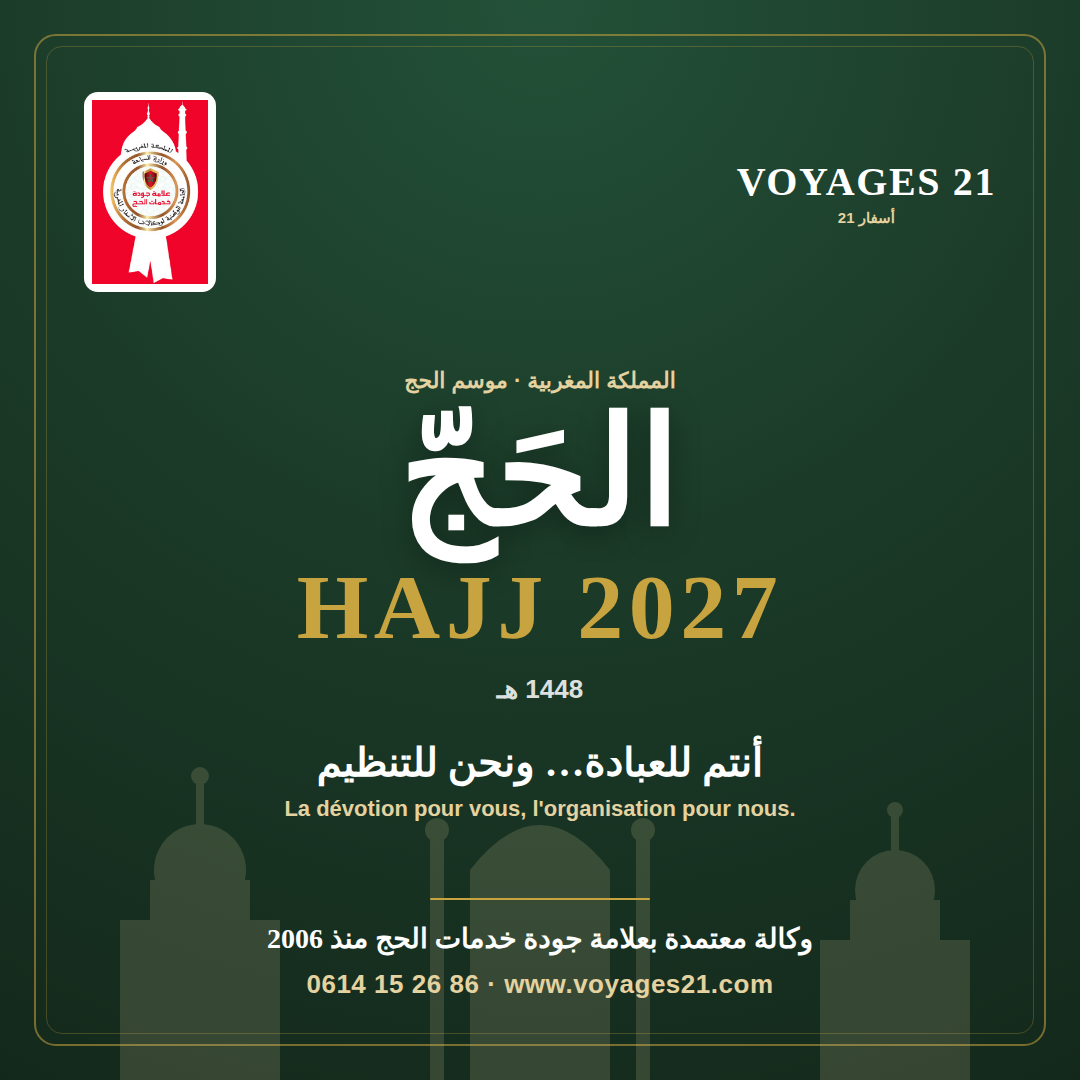
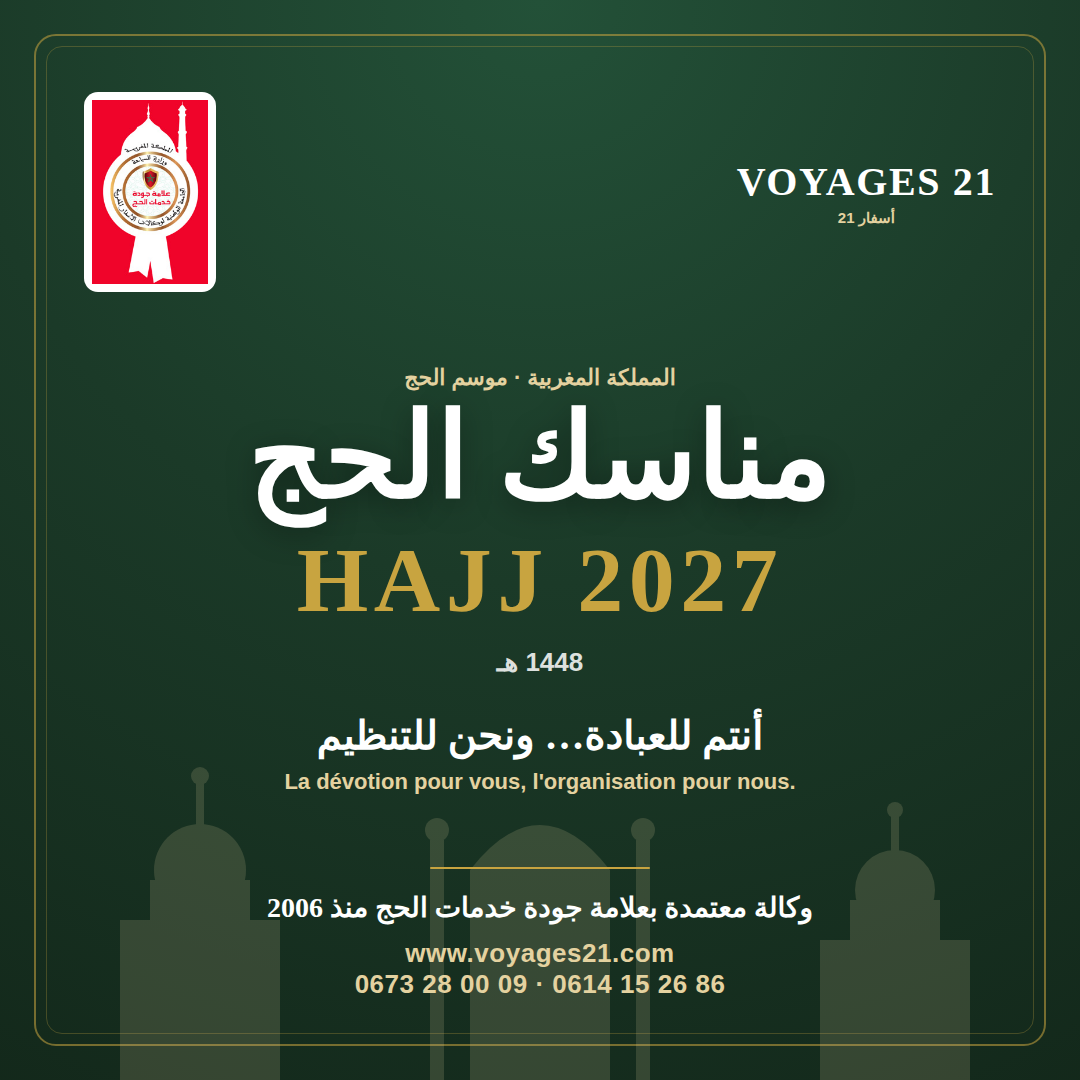
feat(hajj): animations + contacts nommés + visuel manassik + retrait plaquette
- Cadran 1 lit « 26 ans » ; cadran avis cliquable (Google) + battement de cœur
- Services optionnels : section animée (shimmer) + bouton « Appelez-nous »
  clignotant
- Apparition au défilement (reveal) + compteur de prix animé + shimmer dates
- Slogan FR : suppression du point parasite (dir=ltr)
- Contacts : bouton GPS « Cliquez pour venir chez nous » ; barre flottante avec
  numéros complets ; numéros nommés Wafa (0614 15 26 86) / Fouad (0673 28 00 09)
- Visuel WhatsApp : titre « مناسك الحج » 2027/1448 H + 2 numéros + site
- Plaquette A4 supprimée (redondante avec la page)
- MAJ REPRISE-SITE.md

Claude-Session: https://claude.ai/code/session_01LbniTzH83xLUAnfYs4PxP8

Changed region(s): [[0.2139, 0.3361, 0.7639, 0.7639], [0.2444, 0.825, 0.7639, 0.9167]]

diff --git a/public/voyages/destinations/hajj-2027.html b/public/voyages/destinations/hajj-2027.html
@@ -157,9 +157,53 @@
     .v21fab .opt.gps { background: var(--gold); color: var(--forest2); }
     .v21fab .opt .num { font-family: 'DM Sans', sans-serif; }
 
+    /* Animations */
+    @keyframes heartbeat {
+        0%, 28%, 70%, 100% { transform: scale(1); }
+        14% { transform: scale(1.05); }
+        42% { transform: scale(1.045); }
+    }
+    .why-card.is-center { animation: heartbeat 2.2s ease-in-out infinite; cursor: pointer; text-decoration: none; }
+    .why-card.is-center:hover { filter: brightness(1.07); }
+
+    @keyframes blink {
+        0%, 100% { opacity: 1; box-shadow: 0 0 0 0 rgba(200,164,64,.5); }
+        50% { opacity: .55; box-shadow: 0 0 0 10px rgba(200,164,64,0); }
+    }
+    .blink { animation: blink 1.3s ease-in-out infinite; }
+
+    /* Services optionnels */
+    .options { max-width: var(--maxw); margin: 2.4rem auto 0; padding: 0 1.2rem; }
+    .options .inner { background: linear-gradient(135deg, #fbf6ea 0%, #fff 100%); border: 1px solid var(--gold); border-radius: 18px; padding: 1.6rem 1.7rem; box-shadow: 0 10px 28px rgba(200,164,64,.16); position: relative; overflow: hidden; }
+    .options .inner::before { content: ""; position: absolute; top: -50%; inset-inline-start: -30%; width: 60%; height: 200%; background: linear-gradient(115deg, transparent, rgba(255,255,255,.6), transparent); transform: skewX(-18deg); animation: sweep 4.5s ease-in-out infinite; }
+    @keyframes sweep { 0% { inset-inline-start: -40%; } 55%, 100% { inset-inline-start: 130%; } }
+    .options h2 { color: var(--forest); text-align: center; font-size: 1.4rem; margin: 0 0 1rem; position: relative; }
+    .options .opt-grid { display: grid; grid-template-columns: 1fr 1fr; gap: 1rem; position: relative; }
+    .opt-item { background: #fff; border: 1px solid var(--line); border-radius: 12px; padding: 1rem 1.2rem; display: flex; gap: .8rem; align-items: center; transition: .2s; }
+    .opt-item:hover { transform: translateY(-3px); box-shadow: 0 10px 24px rgba(21,46,31,.1); }
+    .opt-item .ic { font-size: 1.7rem; }
+    .opt-item .t { color: var(--forest); font-weight: 700; }
+    .opt-item .p { color: var(--gold); font-weight: 800; font-family: 'DM Sans', sans-serif; }
+    .options .call { display: flex; justify-content: center; margin-top: 1.2rem; position: relative; }
+    .options .call a { display: inline-flex; align-items: center; gap: .5rem; background: var(--gold); color: var(--forest2); font-weight: 800; text-decoration: none; border-radius: 999px; padding: .9rem 1.8rem; }
+
+    /* Shimmer sur les bandeaux de dates */
+    .formule-top { position: relative; overflow: hidden; }
+    .formule-top .dates { position: relative; }
+    .formule-top::after { content: ""; position: absolute; top: 0; inset-inline-start: -30%; width: 40%; height: 100%; background: linear-gradient(115deg, transparent, rgba(228,210,160,.35), transparent); transform: skewX(-18deg); animation: sweep 5s ease-in-out infinite; }
+
+    /* Apparition au défilement */
+    .reveal { opacity: 0; transform: translateY(26px); transition: opacity .6s ease, transform .6s ease; }
+    .reveal.in { opacity: 1; transform: none; }
+    @media (prefers-reduced-motion: reduce) {
+        .why-card.is-center, .blink, .options .inner::before, .formule-top::after { animation: none; }
+        .reveal { opacity: 1; transform: none; transition: none; }
+    }
+
     @media (max-width: 760px) {
         .why-grid { grid-template-columns: 1fr; }
         .incl-grid { grid-template-columns: 1fr; }
+        .opt-grid { grid-template-columns: 1fr; }
         .price-table { font-size: .82rem; }
         .price-table th, .price-table td { padding: .6rem .4rem; }
         .carousel .slide { aspect-ratio: 4/3; }
@@ -176,7 +220,7 @@
 <header class="hajj-hero" id="hajjHero">
     <div class="eyebrow">المملكة المغربية · موسم الحج 1448هـ — 2027</div>
     <h1>الحج 2027 مع وكالة أسفار 21</h1>
-    <p class="slogan">أنتم للعبادة… ونحن للتنظيم<small>Votre Hajj, notre savoir-faire : la dévotion pour vous, l'organisation pour nous.</small></p>
+    <p class="slogan">أنتم للعبادة… ونحن للتنظيم<small dir="ltr">Votre Hajj, notre savoir-faire : la dévotion pour vous, l'organisation pour nous.</small></p>
     <div class="rule"></div>
 </header>
 
@@ -202,17 +246,17 @@
     </div>
     <div class="why-grid">
         <div class="why-card">
-            <div class="big"><span class="num">26</span></div>
-            <h3>سنة من الخبرة</h3>
+            <div class="big"><span class="num">26</span> سنة</div>
+            <h3>من الخبرة</h3>
             <p>في تنظيم الأسفار، منها <b><span class="num">22</span> سنة</b> في خدمة ضيوف الرحمن (العمرة والحج).
             <span class="fr">26 ans d'expertise, dont 22 ans dédiés aux Lieux Saints.</span></p>
         </div>
-        <div class="why-card is-center">
+        <a class="why-card is-center" href="https://search.google.com/local/reviews?placeid=ChIJPaMFhYzurw0R50-J4mRz7oc" target="_blank" rel="noopener" aria-label="قراءة آراء عملائنا">
             <div class="ic">★★★★★</div>
             <h3>حجّاجنا يشهدون لنا</h3>
-            <p>أصدق شهادة على جودتنا هي كلمات من رافقناهم. آراؤهم خيرُ توصية.
-            <span class="fr">Nos pèlerins témoignent pour nous — leurs avis, notre meilleure recommandation.</span></p>
-        </div>
+            <p>أصدق شهادة على جودتنا هي كلمات من رافقناهم. آراؤهم خيرُ توصية — <b>اضغط لقراءة آرائهم</b>.
+            <span class="fr">Nos pèlerins témoignent pour nous — cliquez pour lire leurs avis.</span></p>
+        </a>
         <div class="why-card">
             <div class="label-mini"><img src="/label-qualite-hajj.jpg" alt="علامة جودة خدمات الحج"></div>
             <h3>ثقة وزارة السياحة</h3>
@@ -321,13 +365,6 @@
                 </tr>
             </tbody>
         </table>
-        <div class="supp">
-            <b>إضافات اختيارية:</b>
-            <ul>
-                <li>إضافة <span class="num">23 000</span> درهم لحجز أبراج كدانة (عمائر).</li>
-                <li>إضافة <span class="num">2 000</span> درهم للتنقل من مكة إلى المدينة بقطار الحرمين السريع.</li>
-            </ul>
-        </div>
     </div>
 
     <!-- Inclus / Non inclus -->
@@ -363,6 +400,26 @@
     </div>
 
 </div>
+
+<!-- Services optionnels (section animée) -->
+<section class="options">
+    <div class="inner">
+        <h2>خدمات اختيارية</h2>
+        <div class="opt-grid">
+            <div class="opt-item">
+                <span class="ic">🏨</span>
+                <div><div class="t">حجز أبراج كدانة (عمائر)</div><div class="p">+ <span class="num">23 000</span> درهم</div></div>
+            </div>
+            <div class="opt-item">
+                <span class="ic">🚄</span>
+                <div><div class="t">التنقل من مكة إلى المدينة بقطار الحرمين السريع</div><div class="p">+ <span class="num">2 000</span> درهم</div></div>
+            </div>
+        </div>
+        <div class="call">
+            <a class="blink" href="tel:+212614152686">📞 اتصلوا بنا لمعرفة المزيد · Appelez-nous pour en savoir plus</a>
+        </div>
+    </div>
+</section>
 
 <!-- Avis clients (socle) — TODO: brancher le lien de la campagne d'avis Hajj Google quand prêt -->
 <div class="reviews-ref">
@@ -409,17 +466,17 @@
             <div class="blk">
                 <b>📍 العنوان</b>
                 <a class="addr" href="https://www.google.com/maps/place/?q=place_id:ChIJPaMFhYzurw0R50-J4mRz7oc" target="_blank" rel="noopener">شارع الأمير مولاي عبد الله، عمارة طيبة، الطابق الأول، شقة رقم 1 — مراكش 40000</a>
-                <a class="cbtn gps" href="https://www.google.com/maps/dir/?api=1&destination=Voyages%2021%20Marrakech&destination_place_id=ChIJPaMFhYzurw0R50-J4mRz7oc" target="_blank" rel="noopener" style="margin-top:.7rem">🧭 الاتجاهات على خرائط Google</a>
+                <a class="cbtn gps" href="https://www.google.com/maps/dir/?api=1&destination=Voyages%2021%20Marrakech&destination_place_id=ChIJPaMFhYzurw0R50-J4mRz7oc" target="_blank" rel="noopener" style="margin-top:.7rem">🧭 اضغط لتأتي إلينا · Cliquez pour venir chez nous</a>
             </div>
             <div class="blk">
                 <b>💬 واتساب</b>
-                <a class="cbtn wa" href="https://wa.me/212614152686" target="_blank" rel="noopener">واتساب <span class="num" dir="ltr">0614 15 26 86</span></a>
-                <a class="cbtn wa" href="https://wa.me/212673280009" target="_blank" rel="noopener">واتساب <span class="num" dir="ltr">0673 28 00 09</span></a>
+                <a class="cbtn wa" href="https://wa.me/212614152686" target="_blank" rel="noopener">واتساب وفاء · <span class="num" dir="ltr">0614 15 26 86</span></a>
+                <a class="cbtn wa" href="https://wa.me/212673280009" target="_blank" rel="noopener">واتساب فؤاد · <span class="num" dir="ltr">0673 28 00 09</span></a>
             </div>
             <div class="blk">
                 <b>📱 الهاتف</b>
-                <a class="cbtn tel" href="tel:+212614152686">اتصال <span class="num" dir="ltr">0614 15 26 86</span></a>
-                <a class="cbtn tel" href="tel:+212673280009">اتصال <span class="num" dir="ltr">0673 28 00 09</span></a>
+                <a class="cbtn tel" href="tel:+212614152686">اتصلوا بوفاء · <span class="num" dir="ltr">0614 15 26 86</span></a>
+                <a class="cbtn tel" href="tel:+212673280009">اتصلوا بفؤاد · <span class="num" dir="ltr">0673 28 00 09</span></a>
             </div>
         </div>
         <div class="code">رمز الوكالة: 2D/02 · www.voyages21.com</div>
@@ -431,11 +488,11 @@
 <!-- Barre flottante contacts -->
 <div class="v21fab" id="v21fab">
     <button class="main" id="fabMain" aria-label="تواصل سريع">💬</button>
-    <a class="opt wa" href="https://wa.me/212614152686" target="_blank" rel="noopener">واتساب <span class="num" dir="ltr">0614…86</span></a>
-    <a class="opt wa" href="https://wa.me/212673280009" target="_blank" rel="noopener">واتساب <span class="num" dir="ltr">0673…09</span></a>
-    <a class="opt tel" href="tel:+212614152686">📱 <span class="num" dir="ltr">0614 15 26 86</span></a>
-    <a class="opt tel" href="tel:+212673280009">📱 <span class="num" dir="ltr">0673 28 00 09</span></a>
-    <a class="opt gps" href="https://www.google.com/maps/dir/?api=1&destination=Voyages%2021%20Marrakech&destination_place_id=ChIJPaMFhYzurw0R50-J4mRz7oc" target="_blank" rel="noopener">🧭 الاتجاهات</a>
+    <a class="opt wa" href="https://wa.me/212614152686" target="_blank" rel="noopener">واتساب وفاء · <span class="num" dir="ltr">0614 15 26 86</span></a>
+    <a class="opt wa" href="https://wa.me/212673280009" target="_blank" rel="noopener">واتساب فؤاد · <span class="num" dir="ltr">0673 28 00 09</span></a>
+    <a class="opt tel" href="tel:+212614152686">📱 وفاء · <span class="num" dir="ltr">0614 15 26 86</span></a>
+    <a class="opt tel" href="tel:+212673280009">📱 فؤاد · <span class="num" dir="ltr">0673 28 00 09</span></a>
+    <a class="opt gps" href="https://www.google.com/maps/dir/?api=1&destination=Voyages%2021%20Marrakech&destination_place_id=ChIJPaMFhYzurw0R50-J4mRz7oc" target="_blank" rel="noopener">🧭 اضغط لتأتي إلينا</a>
 </div>
 
 <script>
@@ -445,6 +502,40 @@
     var fabMain = document.getElementById('fabMain');
     fabMain.addEventListener('click', function () { fab.classList.toggle('open'); });
     document.addEventListener('click', function (e) { if (!fab.contains(e.target)) fab.classList.remove('open'); });
+
+    // Apparition au défilement
+    var revealEls = document.querySelectorAll('.why, .formule, .options, .incl-grid, .note-box, .reviews-ref, .contact, .gallery');
+    Array.prototype.forEach.call(revealEls, function (el) { el.classList.add('reveal'); });
+    function fmt(n) { return String(n).replace(/\B(?=(\d{3})+(?!\d))/g, ' '); }
+    function countUp(el) {
+        var target = parseInt((el.getAttribute('data-val') || el.textContent).replace(/[^0-9]/g, ''), 10);
+        if (!target || target < 1000) return; // on n'anime que les vrais montants
+        el.setAttribute('data-val', target);
+        var start = null, dur = 1100;
+        function step(ts) {
+            if (!start) start = ts;
+            var p = Math.min((ts - start) / dur, 1);
+            var eased = 1 - Math.pow(1 - p, 3);
+            el.textContent = fmt(Math.round(target * eased));
+            if (p < 1) requestAnimationFrame(step);
+        }
+        requestAnimationFrame(step);
+    }
+    if ('IntersectionObserver' in window) {
+        var io = new IntersectionObserver(function (entries) {
+            entries.forEach(function (en) {
+                if (!en.isIntersecting) return;
+                en.target.classList.add('in');
+                if (en.target.classList.contains('formule')) {
+                    en.target.querySelectorAll('.price .num').forEach(countUp);
+                }
+                io.unobserve(en.target);
+            });
+        }, { threshold: 0.15 });
+        Array.prototype.forEach.call(revealEls, function (el) { io.observe(el); });
+    } else {
+        Array.prototype.forEach.call(revealEls, function (el) { el.classList.add('in'); });
+    }
 
     // Galerie + photo hero depuis l'admin médias (clé "galerie-hajj")
     fetch('/api/media', { cache: 'no-store' })

diff --git a/public/share-hajj-2027.html b/public/share-hajj-2027.html
@@ -27,7 +27,7 @@
     /* center */
     .center { flex: 1; display: flex; flex-direction: column; align-items: center; justify-content: center; gap: 8px; }
     .eyebrow { color: #E4D2A0; font-family: 'DM Sans', sans-serif; font-weight: 700; font-size: 22px; letter-spacing: .12em; }
-    .ar-title { font-size: 150px; font-weight: 700; line-height: .95; text-shadow: 0 6px 30px rgba(0,0,0,.35); }
+    .ar-title { font-size: 118px; font-weight: 700; line-height: 1; white-space: nowrap; text-shadow: 0 6px 30px rgba(0,0,0,.35); }
     .en-title { font-family: 'Playfair Display', serif; font-weight: 800; font-size: 92px; color: #C8A440; letter-spacing: .06em; margin-top: 2px; }
     .hijri { font-family: 'DM Sans', sans-serif; font-weight: 700; font-size: 26px; color: #fff; opacity: .85; margin-top: 6px; }
     .slogan { margin-top: 26px; font-size: 40px; font-weight: 700; color: #fff; }
@@ -78,7 +78,7 @@
 
         <div class="center">
             <div class="eyebrow">المملكة المغربية · موسم الحج</div>
-            <div class="ar-title">الحَجّ</div>
+            <div class="ar-title">مناسك الحج</div>
             <div class="en-title">HAJJ 2027</div>
             <div class="hijri">1448 هـ</div>
             <div class="slogan">أنتم للعبادة… ونحن للتنظيم
@@ -89,7 +89,7 @@
         <div class="bottom">
             <div class="gold-line"></div>
             <div class="accred">وكالة معتمدة بعلامة جودة خدمات الحج منذ 2006</div>
-            <div class="contact">www.voyages21.com · <span class="num">0614 15 26 86</span></div>
+            <div class="contact">www.voyages21.com<br><span class="num">0614 15 26 86</span> · <span class="num">0673 28 00 09</span></div>
         </div>
     </div>
 </div>

diff --git a/REPRISE-SITE.md b/REPRISE-SITE.md
@@ -54,7 +54,12 @@ _Dernière mise à jour : 2026-06-25_
   - **Label « علامة جودة خدمات الحج »** (Ministère du Tourisme, depuis 2006) ajouté
     en `public/label-qualite-hajj.jpg` + bannière de confiance en haut de la
     rubrique « Omra & Hajj » (`destinations/omra.html`) qui mène à la page Hajj.
-  - **Plaquette A4 imprimable** : `/plaquette-hajj-2027.html` (print → PDF, partage).
+  - **Plaquette A4** : abandonnée (jugée redondante avec la page web).
+  - **Animations** : cadran avis cliquable + battement de cœur, section services
+    optionnels animée + bouton « Appelez-nous » clignotant, apparition au
+    défilement, compteur de prix animé, shimmer sur les dates.
+  - **Contacts nommés** : Wafa (0614 15 26 86) / Fouad (0673 28 00 09) — à confirmer.
+  - **Visuel WhatsApp** : « مناسك الحج 2027 · 1448 هـ » + 2 numéros + site.
   - **Paiement** : du **20 juin au 10 juillet 2026** (Bareed Bank).
   - **Avis clients** : section « socle » en place — le bouton pointe pour l'instant
     vers les avis Google de l'agence ; **Karim a lancé une campagne d'avis Hajj sur
